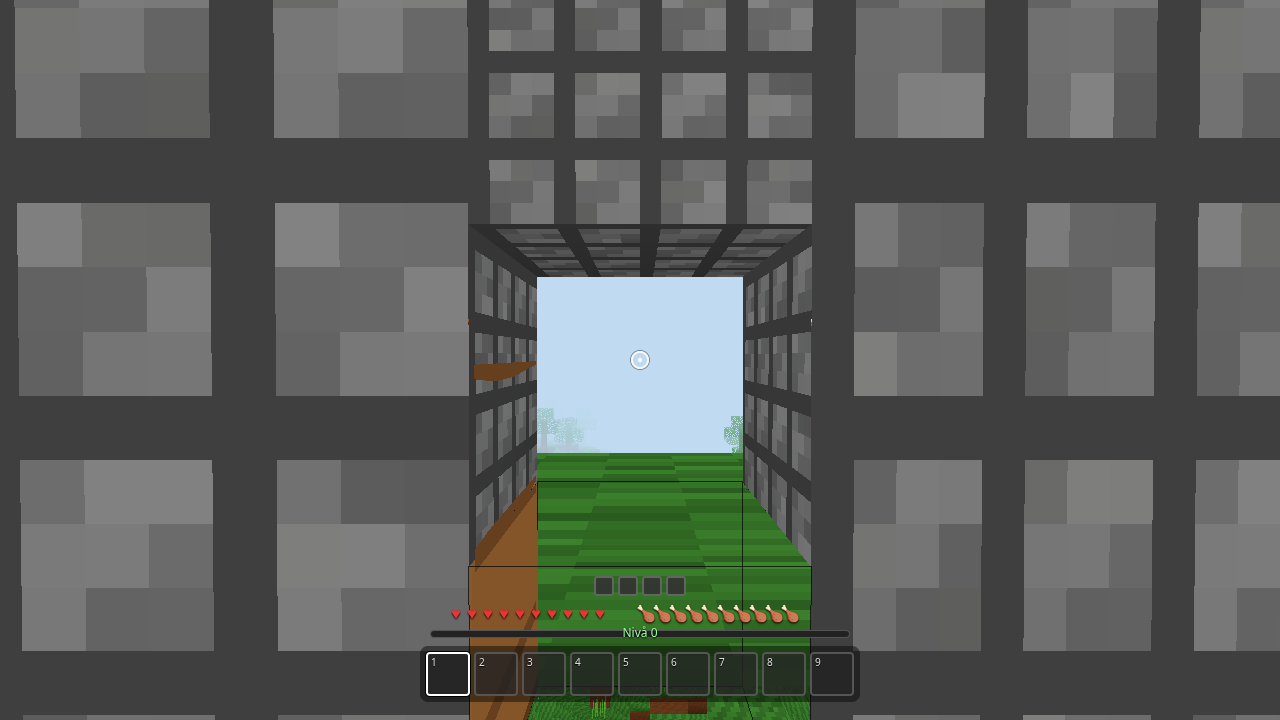
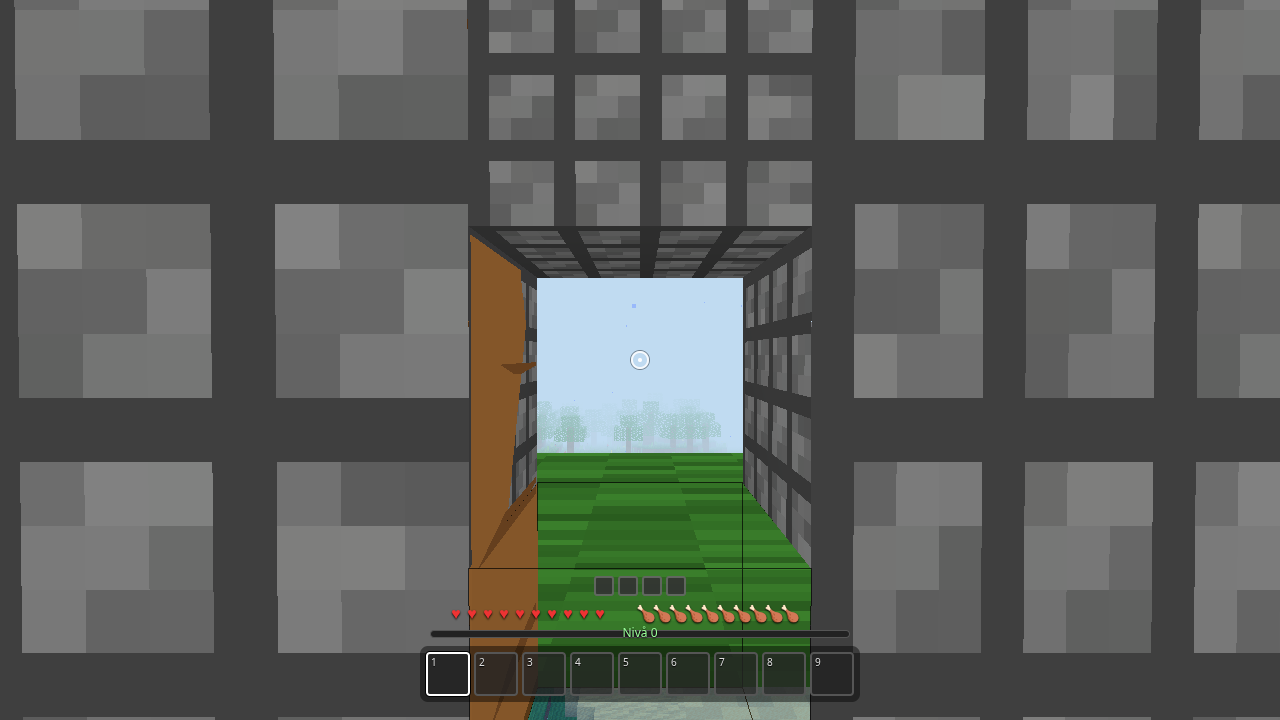
it18: iteration log 01:50–02:36, final runs core 56/56, it18-verify 8/8, it18-explore 11/11, vitest 114

diff --git a/docs/ITERATIONS.md b/docs/ITERATIONS.md
@@ -4,7 +4,7 @@ Original voxel-sandkasse. Ingen Mojang-assets.
 
 ## Iterasjon 18 (2026-10-31)
 
-Start: lør. 31. okt. 01:50 CET · Slutt: lør. 31. okt. END CET (~MIN min) · gren `dev` (ikke publisert)
+Start: lør. 31. okt. 01:50 CET · Slutt: lør. 31. okt. 02:36 CET (~46 min) · gren `dev` (ikke publisert)
 
 ### Fokus
 Feiljakt med ekte tastatur/mus i Chromium (nytt `scripts/it18-explore.ts`: tårnhopp, sniking langs kant/brobygging, stiger, dører, vannlanding, Q-slipp, søvn, graving under vann). Så tre små MC-ting rundt planter: beinmel, blomster, vann som vasker bort planter. `__bv` bare til oppsett.

diff --git a/docs/CORE-PLAYTEST.md b/docs/CORE-PLAYTEST.md
@@ -4,7 +4,7 @@ Acceptance checklist for a **playable** Minecraft-like survival base.
 Expected behaviour = Java/Bedrock survival unless noted.
 **Status legend:** PASS | FAIL | PARTIAL | UNTESTED
 
-Last run: 2026-10-31 02:08–02:13 CET · it18 core (56 PASS / 0 FAIL) + scripts/it18-verify.ts + scripts/it18-explore.ts (section P)
+Last run: 2026-10-31 02:26–02:35 CET · it18 core (56 PASS / 0 FAIL) + scripts/it18-verify.ts + scripts/it18-explore.ts (section P)
 
 ## A. World & spawn
 | # | Check | Minecraft-expected | Status | Notes |
